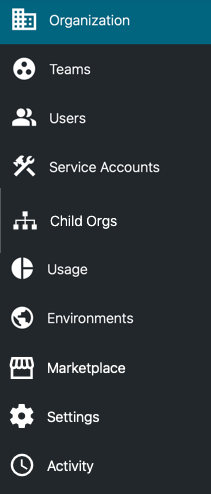
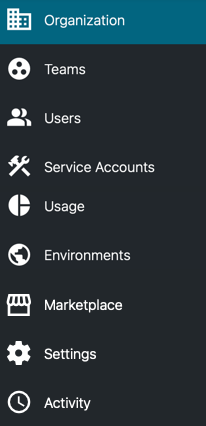
remove child orgs

diff --git a/content/en/docs/management_guide/organizations/managing_organizations.md b/content/en/docs/management_guide/organizations/managing_organizations.md
@@ -24,7 +24,6 @@ To manage your organization information, select **Organization** from the _Use
 * Teams
 * Users
 * Service Accounts
-* Child Orgs
 * Usage
 * Environments (you must be an administrator)
 * Marketplace (you must be an administrator)
@@ -191,12 +190,6 @@ To remove a team:
 7. (Optional) Select a team to which to transfer the team's assigned apps.
 8. Confirm the removal of the deletion of the selected team, by entering the name of the team to delete permanently.
 9. Click **I understand that this is a permanent and irreversible action. Continue**.
-
-## Managing child organizations
-
-The **Child Orgs** tab enables you to manage child organizations and to add a child organization to the selected parent organization. To add a child organization, refer to [Managing an Organization](/docs/management_guide/organizations/managing_organizations/#managing-an-organization).
-
-![Managing child organizations](/Images/child_orgs_tab.png)
 
 ## Viewing usage
 
